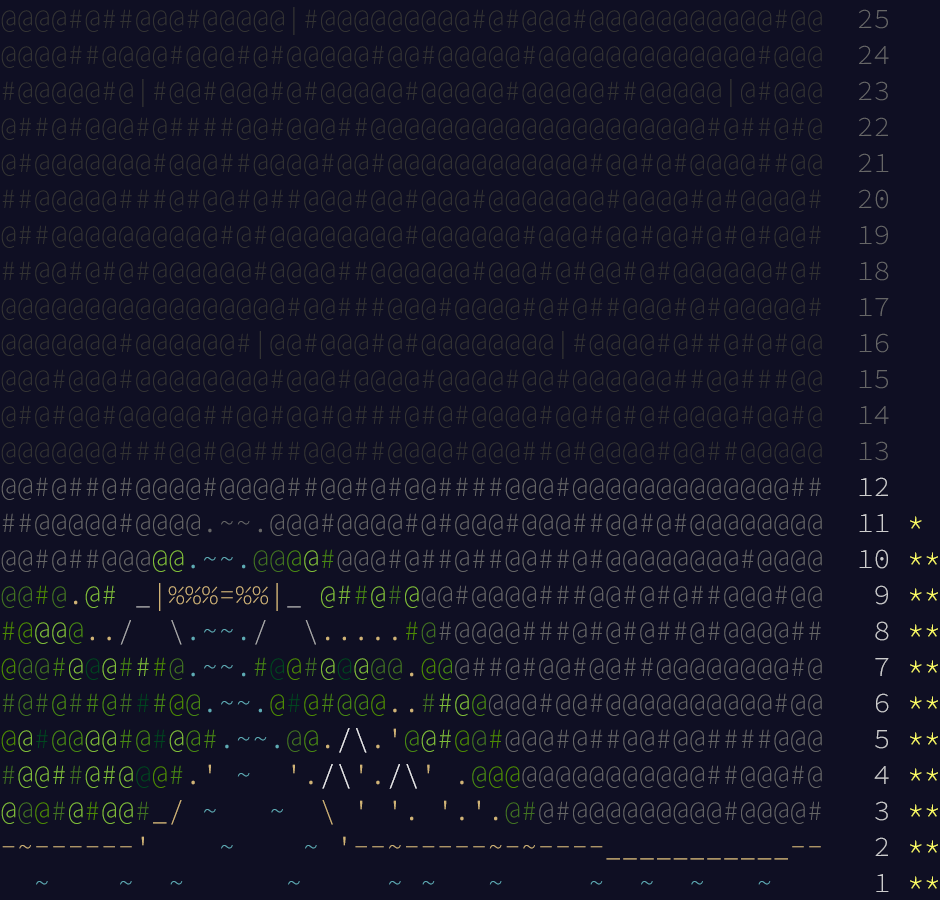
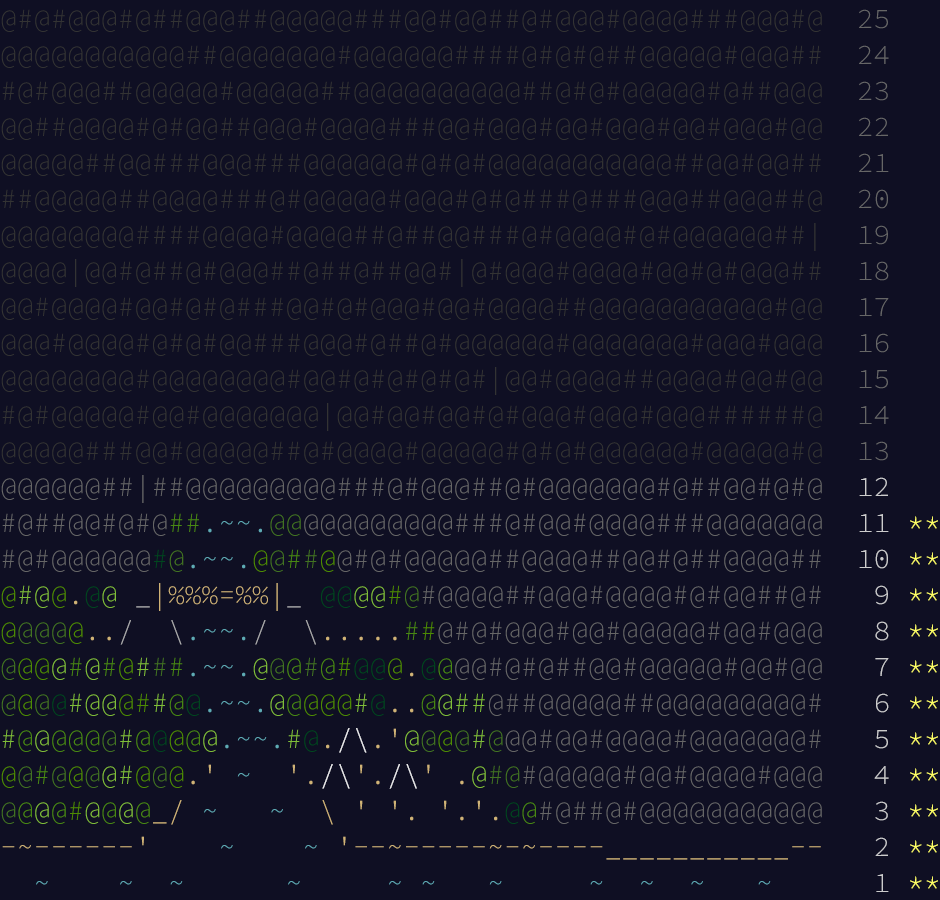
rust: 2022.11, part 2: solve

diff --git a/2022/rust/src/aoc11.rs b/2022/rust/src/aoc11.rs
@@ -11,7 +11,7 @@ struct MonkeyError;
 
 #[derive(Debug, PartialEq)]
 enum Operand {
-    Int(i32),
+    Int(i64),
     Old,
 }
 
@@ -64,9 +64,9 @@ impl FromStr for Operation {
 
 #[derive(Debug, PartialEq)]
 struct Monkey {
-    items: Vec<i32>,
+    items: Vec<i64>,
     operation: Operation,
-    test: i32,
+    test: i64,
     if_true: usize,
     if_false: usize,
 }
@@ -79,7 +79,7 @@ impl FromStr for Monkey {
         let items = lines.next().ok_or(MonkeyError)?["  Starting items: ".len()..]
             .split(", ")
             .map(str::parse)
-            .collect::<Result<Vec<i32>, _>>()
+            .collect::<Result<Vec<i64>, _>>()
             .or(Err(MonkeyError))?;
         let operation = lines.next().ok_or(MonkeyError)?.parse::<Operation>()?;
         let test = lines.next().ok_or(MonkeyError)?["  Test: divisible by ".len()..]
@@ -102,8 +102,8 @@ impl FromStr for Monkey {
     }
 }
 
-impl<'a, I: Clone + Iterator<Item = &'a str>> Day<'a, I, i32> for Day11 {
-    fn part1(mut input: I) -> Option<i32> {
+impl<'a, I: Clone + Iterator<Item = &'a str>> Day<'a, I, usize> for Day11 {
+    fn part1(mut input: I) -> Option<usize> {
         let mut monkeys = parse_monkeys(&mut input).ok()?;
         let mut inspections = vec![0; monkeys.len()];
 
@@ -142,16 +142,53 @@ impl<'a, I: Clone + Iterator<Item = &'a str>> Day<'a, I, i32> for Day11 {
 
         inspections.sort_unstable();
 
-        let mut iter = inspections
-            .iter()
-            .rev()
-            .flat_map(|&inspection| i32::try_from(inspection));
+        let mut iter = inspections.iter().rev();
 
         Some(iter.next()? * iter.next()?)
     }
 
-    fn part2(_input: I) -> Option<i32> {
-        todo!()
+    fn part2(mut input: I) -> Option<usize> {
+        let mut monkeys = parse_monkeys(&mut input).ok()?;
+        let modulo: i64 = monkeys.iter().map(|monkey| monkey.test).product();
+        let mut inspections = vec![0; monkeys.len()];
+
+        for _ in 0..10_000 {
+            for i in 0..monkeys.len() {
+                inspections[i] += monkeys[i].items.len();
+                for mut item in monkeys[i].items.drain(..).collect::<Vec<_>>() {
+                    item = match &monkeys[i].operation {
+                        Operation {
+                            operator: Add {},
+                            operand: Int(summand),
+                        } => item + *summand,
+                        Operation {
+                            operator: Add {},
+                            operand: Old {},
+                        } => item + item,
+                        Operation {
+                            operator: Mul {},
+                            operand: Int(factor),
+                        } => item * *factor,
+                        Operation {
+                            operator: Mul {},
+                            operand: Old {},
+                        } => item * item,
+                    } % modulo;
+                    let test = if item % monkeys[i].test == 0 {
+                        monkeys[i].if_true
+                    } else {
+                        monkeys[i].if_false
+                    };
+                    monkeys[test].items.push(item);
+                }
+            }
+        }
+
+        inspections.sort_unstable();
+
+        let mut iter = inspections.iter().rev();
+
+        Some(iter.next()? * iter.next()?)
     }
 }
 
@@ -182,11 +219,11 @@ mod tests {
         input.lines()
     }
 
-    fn test_part1(input: &str) -> Option<i32> {
+    fn test_part1(input: &str) -> Option<usize> {
         Day11::part1(test_input(input))
     }
 
-    fn test_part2(input: &str) -> Option<i32> {
+    fn test_part2(input: &str) -> Option<usize> {
         Day11::part2(test_input(input))
     }
 
@@ -309,6 +346,6 @@ mod tests {
 
     #[test]
     fn test2() {
-        assert_eq!(None, test_part2(INPUT)); // todo replace expected value
+        assert_eq!(Some(2713310158), test_part2(INPUT));
     }
 }

diff --git a/2022/README.md b/2022/README.md
@@ -14,7 +14,7 @@
 @#@@@@@#@@@@@@@@@@@@@#@#@@#@@##@@@##@@@@@#@###@@#  14
 @@@@@@@@@@@#@#@#@#@#@|#@@##@@@@#@@@@#@@#@@#@@@@#@  13
 ##@@@@@@@@@@@@###@#@@@@@@@@##@@@@@@@##@@@@#@@#@@@  12
-##@@@@@#@@@@.~~.@@@#@@@@#@#@@@#@@@##@@#@#@@@@@@@@  11 *
+#@##@@#@#@##.~~.@@@@@@@@@@@###@#@@#@@@@###@@@@@@@  11 **
 @#@##@@@@@@.~~.#@@###@@@#@@@@@##@@#@#@@@##@#@##@@  10 **
 ##@@.@# _|%%%=%%|_ #@@##@##@@@@@@@@@##@@@@#@##@@@   9 **
 @@#@@../  \.~~./  \.....@@@##@@#@##@@#@@@@@@@#@@@   8 **
@@ -27,4 +27,4 @@
   ~    ~  ~      ~     ~ ~   ~     ~  ~  ~   ~      1 **
 ```
 
-![Calendar after day 11, part 1](calendar.png)
+![Calendar after day 11](calendar.png)
